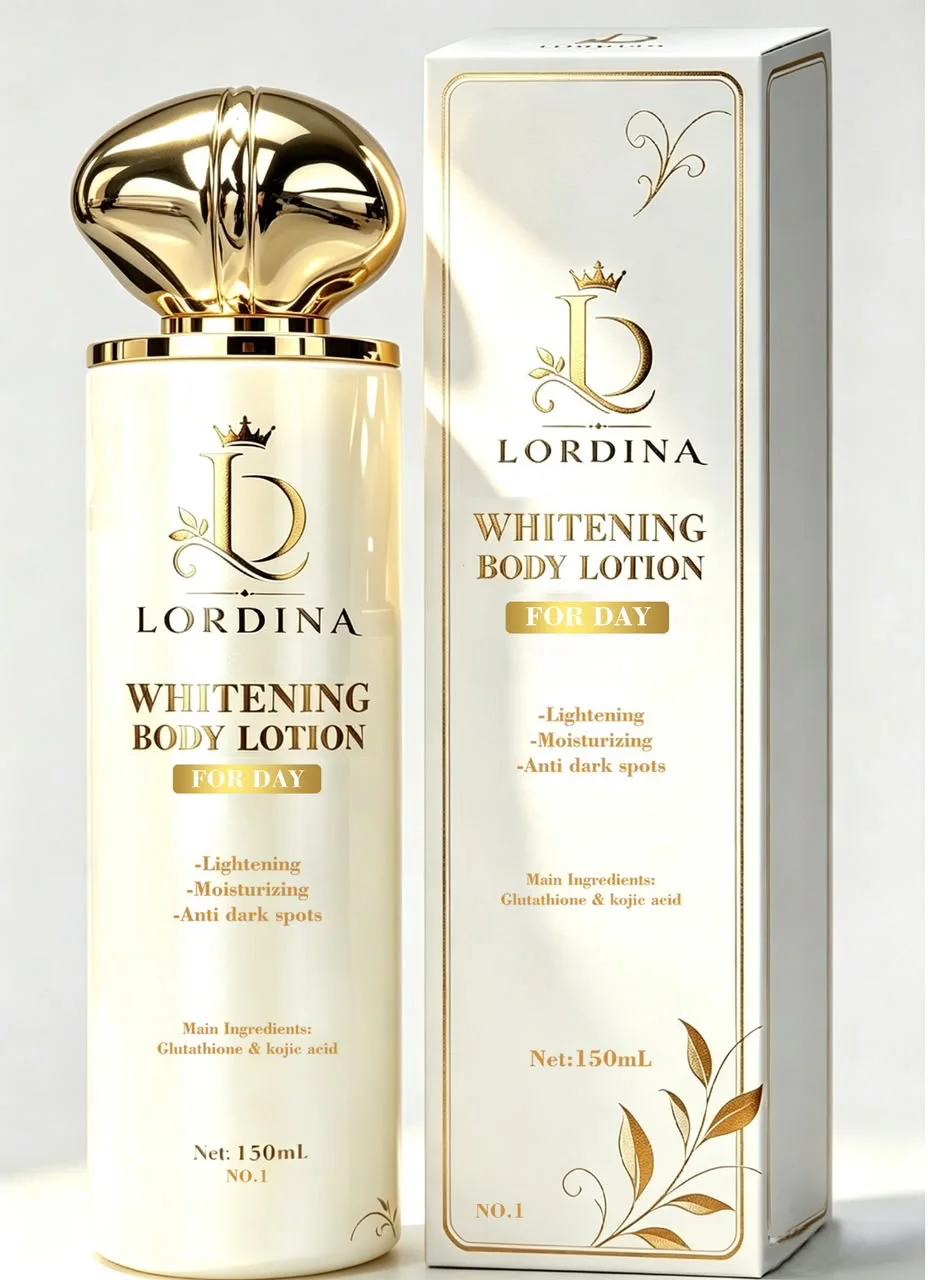
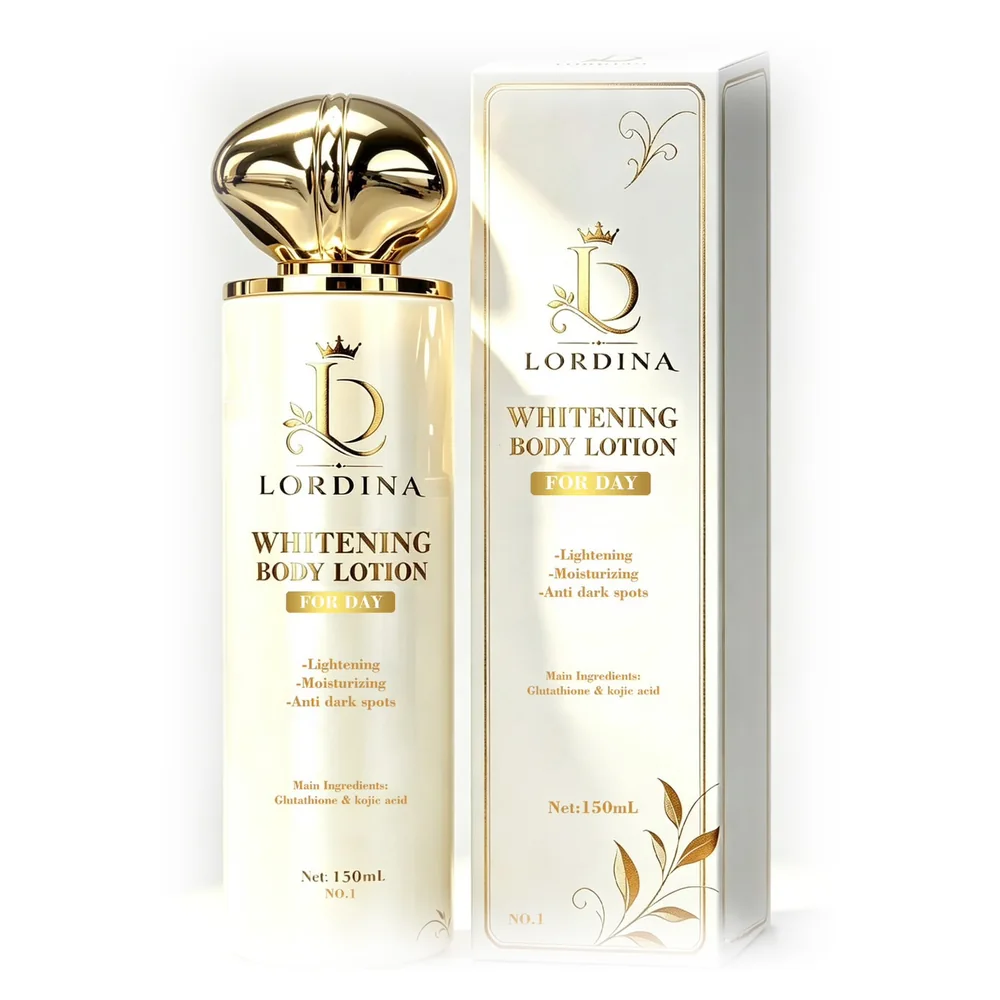
Polish the homepage: clean packshots, wider hero, trust line
- Put all five Lordina product photos on pure white at one size
- Crop the face cream photo so her face is fully in view
- Show the two face products as large cards above the body range
- Drop the staff-login icon from the customer header (still in footer)
- Widen the hero photo, add a soft glow and a trust line that shows
  only filled-in details: delivery areas, MoMo/card, FDA Ghana number
- Add an FDA Ghana registration number field to Admin shop details

diff --git a/src/lordina-hero.css b/src/lordina-hero.css
@@ -9,7 +9,7 @@
 .site-top--dark .mobile-nav a { color: #fff8ed; border-bottom-color: rgb(255 248 237 / .16); }
 
 /* Hero: the serum, its photo and a way to order. */
-.lordina-hero { display: grid; grid-template-columns: minmax(0, 1fr) minmax(0, 1fr); align-items: center; gap: clamp(32px, 5vw, 80px); padding: clamp(36px, 5vw, 72px) max(24px, calc((100vw - 1240px) / 2)); background: #1a1310; color: #fff8ed; }
+.lordina-hero { display: grid; grid-template-columns: minmax(0, 5fr) minmax(0, 6fr); align-items: center; gap: clamp(32px, 5vw, 72px); padding: clamp(32px, 4vw, 56px) max(24px, calc((100vw - 1240px) / 2)); background: radial-gradient(ellipse 60% 80% at 75% 50%, #2c1f19 0%, #1a1310 70%); color: #fff8ed; }
 .lordina-hero__eyebrow { color: #e3b896; font: 600 12px/1.4 var(--sans); letter-spacing: .08em; }
 .lordina-hero h1 { max-width: 520px; margin: 14px 0 16px; color: #fff8ed; font: 500 clamp(40px, 4.6vw, 64px)/1.02 var(--serif); letter-spacing: -.015em; }
 .lordina-hero__accent { color: #e3b896; }
@@ -19,13 +19,16 @@
 .lordina-hero__button:hover { filter: brightness(1.08); }
 .lordina-hero__link { padding-bottom: 3px; border-bottom: 1px solid #e3b896; color: #fff8ed; font-size: 14px; }
 .lordina-hero__link:hover { color: #e3b896; }
-.lordina-hero__portrait { justify-self: end; width: 100%; max-width: 520px; aspect-ratio: 4 / 5; overflow: hidden; border-radius: 6px; background: #2a1f1a; }
+.lordina-hero__facts { display: flex; flex-wrap: wrap; gap: 8px 22px; margin: 36px 0 0; padding: 18px 0 0; border-top: 1px solid rgb(255 248 237 / .14); list-style: none; color: #d9c7bb; font-size: 13px; }
+.lordina-hero__facts li { display: inline-flex; align-items: center; gap: 8px; }
+.lordina-hero__facts li::before { content: ''; width: 5px; height: 5px; border-radius: 50%; background: #e3b896; }
+.lordina-hero__portrait { justify-self: end; width: 100%; max-width: 620px; aspect-ratio: 5 / 6; overflow: hidden; border-radius: 6px; background: #2a1f1a; }
 .lordina-hero__portrait img { width: 100%; height: 100%; object-fit: cover; object-position: center 30%; }
 
 /* The face cream, next to its photo. */
 .lordina-ritual { display: grid; grid-template-columns: 1fr 1fr; background: #f6f0e8; color: #261e1b; }
 .lordina-ritual__photo { height: clamp(380px, 38vw, 520px); overflow: hidden; background: #ead7cb; }
-.lordina-ritual__photo img { width: 100%; height: 100%; object-fit: cover; object-position: center 36%; }
+.lordina-ritual__photo img { width: 100%; height: 100%; object-fit: cover; object-position: center 12%; }
 .lordina-ritual__copy { display: flex; flex-direction: column; align-items: flex-start; justify-content: center; padding: 48px clamp(28px, 6vw, 96px); }
 .lordina-ritual__copy .lordina-hero__eyebrow { color: #8f4f30; }
 .lordina-ritual h2 { max-width: 460px; margin: 12px 0 16px; font: 500 clamp(34px, 3.6vw, 50px)/1.05 var(--serif); letter-spacing: -.01em; }

diff --git a/src/storefront.jsx b/src/storefront.jsx
@@ -1,5 +1,5 @@
 import { createContext, useCallback, useContext, useEffect, useMemo, useState } from 'react'
-import { ArrowRight, ArrowUpRight, BadgeCheck, Brush, ChevronDown, Droplet, Flower, Flower2, Gem, Gift, Heart, Leaf, Mail, MapPin, Menu, MessageCircle, Phone, PersonStanding, Plus, Search, ShieldCheck, ShoppingBag, ShoppingCart, Smile, Sparkles, Star, Sun, Truck, UserRound, X } from 'lucide-react'
+import { ArrowRight, ArrowUpRight, BadgeCheck, Brush, ChevronDown, Droplet, Flower, Flower2, Gem, Gift, Heart, Leaf, Mail, MapPin, Menu, MessageCircle, Phone, PersonStanding, Plus, Search, ShieldCheck, ShoppingBag, ShoppingCart, Smile, Sparkles, Star, Sun, Truck, X } from 'lucide-react'
 import { canBuy, formatGhs, groupProducts, mergeCatalog, mergeContent, ratingsByProduct } from './cloud/site.js'
 
 // Shared by every public page: website content (from the admin editor), the cart, header, footer and cart panel.
@@ -301,13 +301,11 @@ export function SiteHeader({ dark = true }) {
       <nav className="main-nav" aria-label="Main">{items.map(desktop)}</nav>
       <div className="header-actions">
         {products.length ? <a className="icon-btn" href="/shop#search" aria-label="Search products"><Search {...ICON} /></a> : null}
-        <a className="icon-btn" href="/admin/" aria-label="Staff login" title="Staff login"><UserRound {...ICON} /></a>
         {products.length || count ? <button className="icon-btn cart-btn" onClick={() => openCart()} aria-label={`Open cart, ${count} ${count === 1 ? 'item' : 'items'}`}><ShoppingCart {...ICON} /><span className="cart-count">{count}</span></button> : null}
         <button className="icon-btn menu-btn" onClick={() => setMenuOpen(!menuOpen)} aria-label={menuOpen ? 'Close menu' : 'Open menu'} aria-expanded={menuOpen}>{menuOpen ? <X {...ICON} /> : <Menu {...ICON} />}</button>
       </div>
       <div className={`mobile-nav ${menuOpen ? 'open' : ''}`} aria-hidden={!menuOpen} inert={menuOpen ? undefined : true}>
         {items.map(mobile)}
-        <a href="/admin/" className="sub" onClick={close}>Staff login</a>
       </div>
     </header>
   </div>

diff --git a/src/LordinaHero.jsx b/src/LordinaHero.jsx
@@ -12,12 +12,18 @@ function OrderButton({ item, products, shop, label, className }) {
   return <a className={className} href={href} {...(href.startsWith('http') ? { target: '_blank', rel: 'noreferrer' } : {})}>{label} <ArrowRight {...ICON} /></a>
 }
 
-export default function LordinaHero({ home, shop, products }) {
+export default function LordinaHero({ home, shop, products, payOnline }) {
   const image = pictureLink(home.heroImage) || HERO_IMAGE
   const secondImage = pictureLink(home.heroSecondImage)
   const range = home.range || []
   const serum = range.find((item) => item.key === 'serum')
   const cream = range.find((item) => item.key === 'cream')
+  // Only what is true: each line appears once the owner has filled in that detail.
+  const facts = [
+    shop.deliveryAreas ? `Delivery to ${shop.deliveryAreas}` : '',
+    payOnline ? 'Pay with MoMo or card' : '',
+    shop.fdaNumber ? `FDA Ghana reg. ${shop.fdaNumber}` : '',
+  ].filter(Boolean)
 
   return <>
     <section className="lordina-hero" aria-labelledby="hero-title">
@@ -29,6 +35,7 @@ export default function LordinaHero({ home, shop, products }) {
           <OrderButton item={serum} products={products} shop={shop} label={home.heroAction || 'Order now'} className="lordina-hero__button" />
           <a className="lordina-hero__link" href="#lordina-range">See all {range.filter((item) => item.show !== false).length} products</a>
         </div>
+        {facts.length ? <ul className="lordina-hero__facts">{facts.map((fact) => <li key={fact}>{fact}</li>)}</ul> : null}
       </div>
       <div className="lordina-hero__portrait">
         <img src={image} alt={home.heroImageAlt || ''} width="956" height="1280" fetchPriority="high" decoding="async" />

diff --git a/src/lordina-range.css b/src/lordina-range.css
@@ -6,10 +6,11 @@
 .lordina-range__group + .lordina-range__group { margin-top: 48px; }
 .lordina-range__group h3 { margin-bottom: 16px; color: #8f4f30; font: 600 14px/1.4 var(--sans); }
 .lordina-range__grid { display: grid; grid-template-columns: repeat(var(--cols, 3), minmax(0, 1fr)); gap: 20px; }
-.lordina-range__grid[data-count="2"] { --cols: 2; max-width: 820px; }
+.lordina-range__grid[data-count="2"] { --cols: 2; }
+.lordina-range__grid[data-count="2"] .lordina-range__image { aspect-ratio: 16 / 10; }
 .lordina-range__grid[data-count="1"] { --cols: 1; max-width: 400px; }
 .lordina-range__item { display: flex; flex-direction: column; overflow: hidden; border: 1px solid #e8ddd3; border-radius: 8px; background: #fff; }
-.lordina-range__image { aspect-ratio: 1; padding: 12px; background: #fff; }
+.lordina-range__image { aspect-ratio: 1; background: #fff; }
 .lordina-range__image img { width: 100%; height: 100%; object-fit: contain; }
 .lordina-range__words { flex: 1; padding: 4px 20px 0; }
 .lordina-range__use { display: inline-block; margin-bottom: 10px; padding: 4px 10px; border-radius: 999px; background: #f6e9df; color: #7a4428; font-size: 12px; font-weight: 600; }
@@ -31,7 +32,7 @@
 @media (max-width: 520px) {
   .lordina-range { padding: 44px 16px 52px; }
   .lordina-range__grid, .lordina-range__grid[data-count] { --cols: 2; max-width: none; gap: 12px; }
-  .lordina-range__image { padding: 6px; }
+.lordina-range__grid[data-count="2"] .lordina-range__image { aspect-ratio: 1; }
   .lordina-range__words { padding: 2px 12px 0; }
   .lordina-range__use { margin-bottom: 8px; font-size: 11px; }
   .lordina-range__words h4 { font-size: 18px; }

diff --git a/src/App.jsx b/src/App.jsx
@@ -85,7 +85,7 @@ export default function App() {
 
   return <main className="home">
     <SiteHeader />
-    <LordinaHero home={home} shop={content.shop} products={products} />
+    <LordinaHero home={home} shop={content.shop} products={products} payOnline={Boolean(content.checkout?.paystackPublicKey)} />
 
     {/* The owner's order; hidden sections are left out (Admin → Website → Layout and menu). */}
     {content.layout.sections.filter((section) => section.show).map((section) => <Fragment key={section.key}>{sections[section.key]}</Fragment>)}

diff --git a/src/cloud/site.js b/src/cloud/site.js
@@ -130,6 +130,7 @@ export const SHOP_FIELDS = [
   { key: 'deliveryTime', label: 'Delivery time' },
   { key: 'returnDays', label: 'Days to return an item' },
   { key: 'refundDays', label: 'Days to send a refund' },
+  { key: 'fdaNumber', label: 'FDA Ghana registration number' },
   { key: 'instagram', label: 'Instagram link' },
   { key: 'tiktok', label: 'TikTok link' },
   { key: 'facebook', label: 'Facebook link' },

diff --git a/src/admin/views/Website.jsx b/src/admin/views/Website.jsx
@@ -166,6 +166,7 @@ const SHOP_HINTS = {
   deliveryTime: 'e.g. 1 to 2 days',
   returnDays: 'a number, e.g. 7',
   refundDays: 'a number, e.g. 5',
+  fdaNumber: 'shown under the order button on the home page',
   instagram: 'full link, starting with https://',
   tiktok: 'full link, starting with https://',
   facebook: 'full link, starting with https://',
